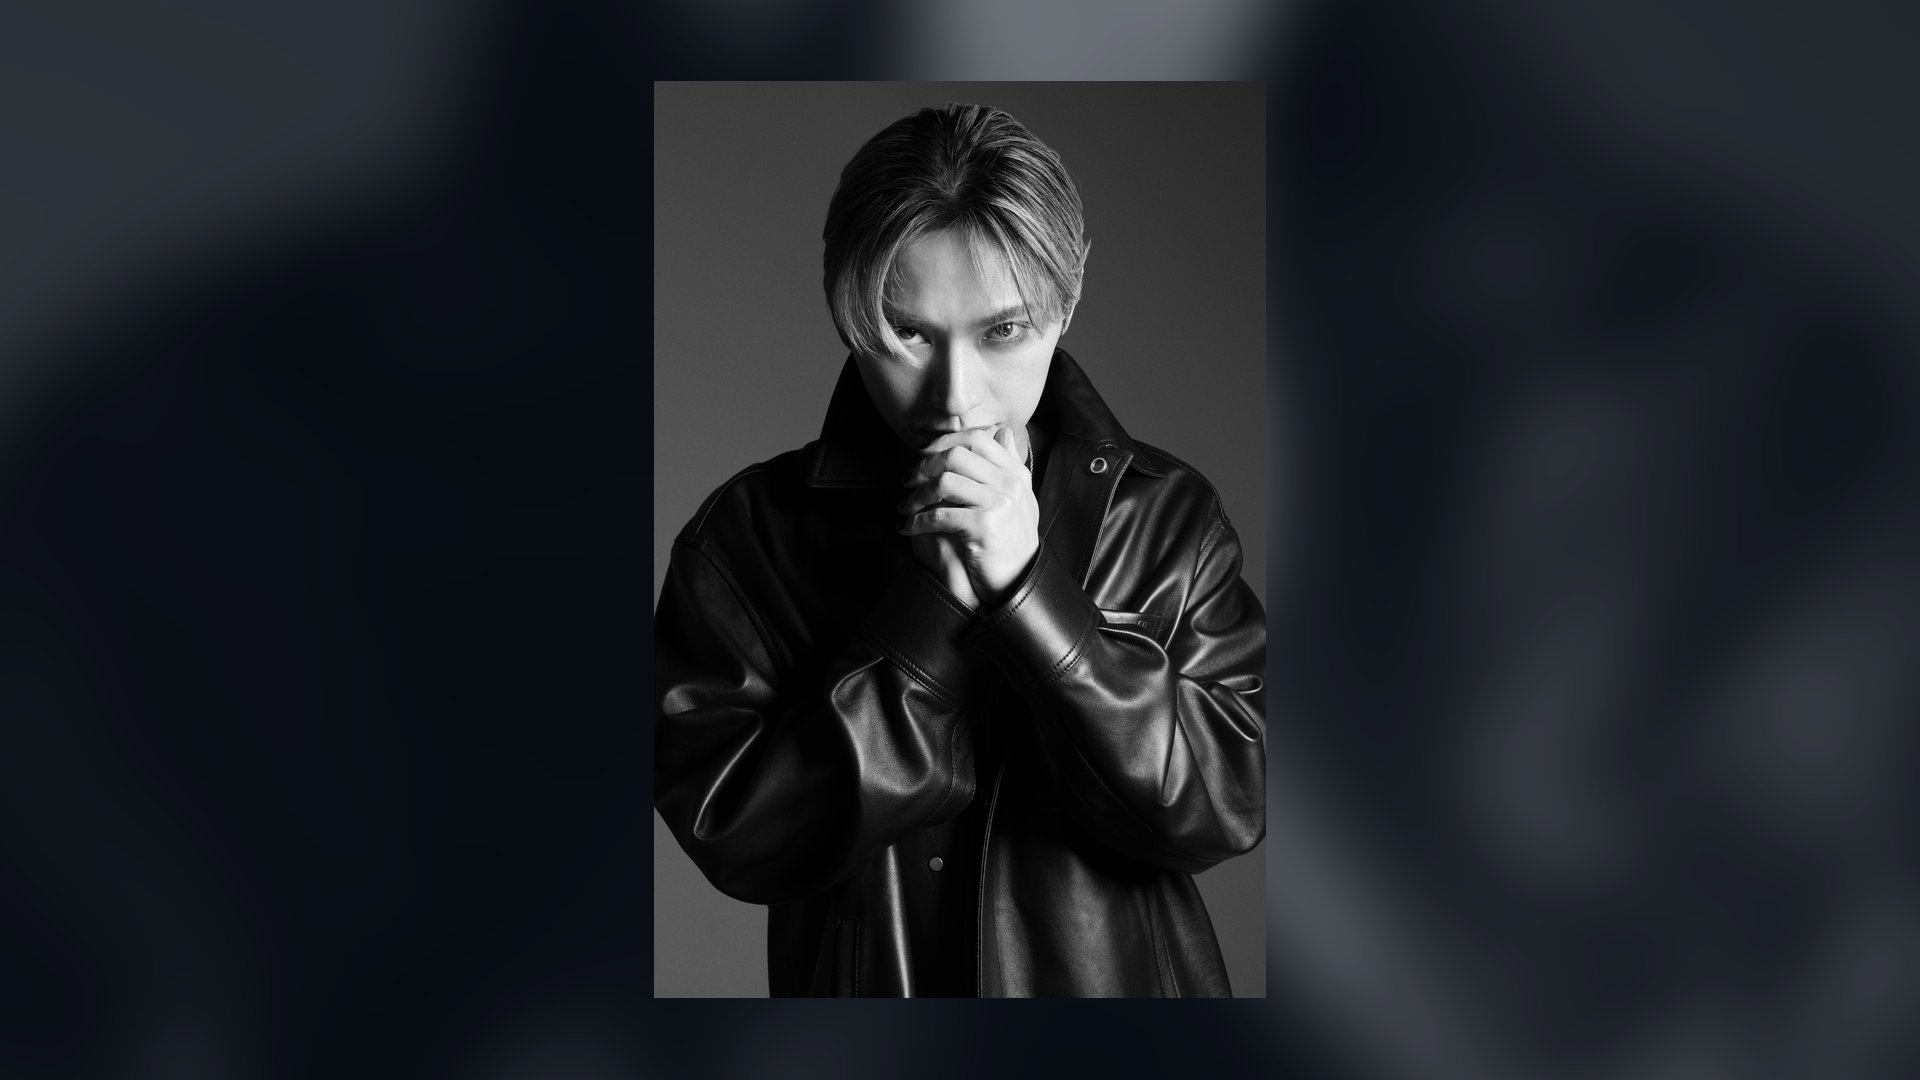
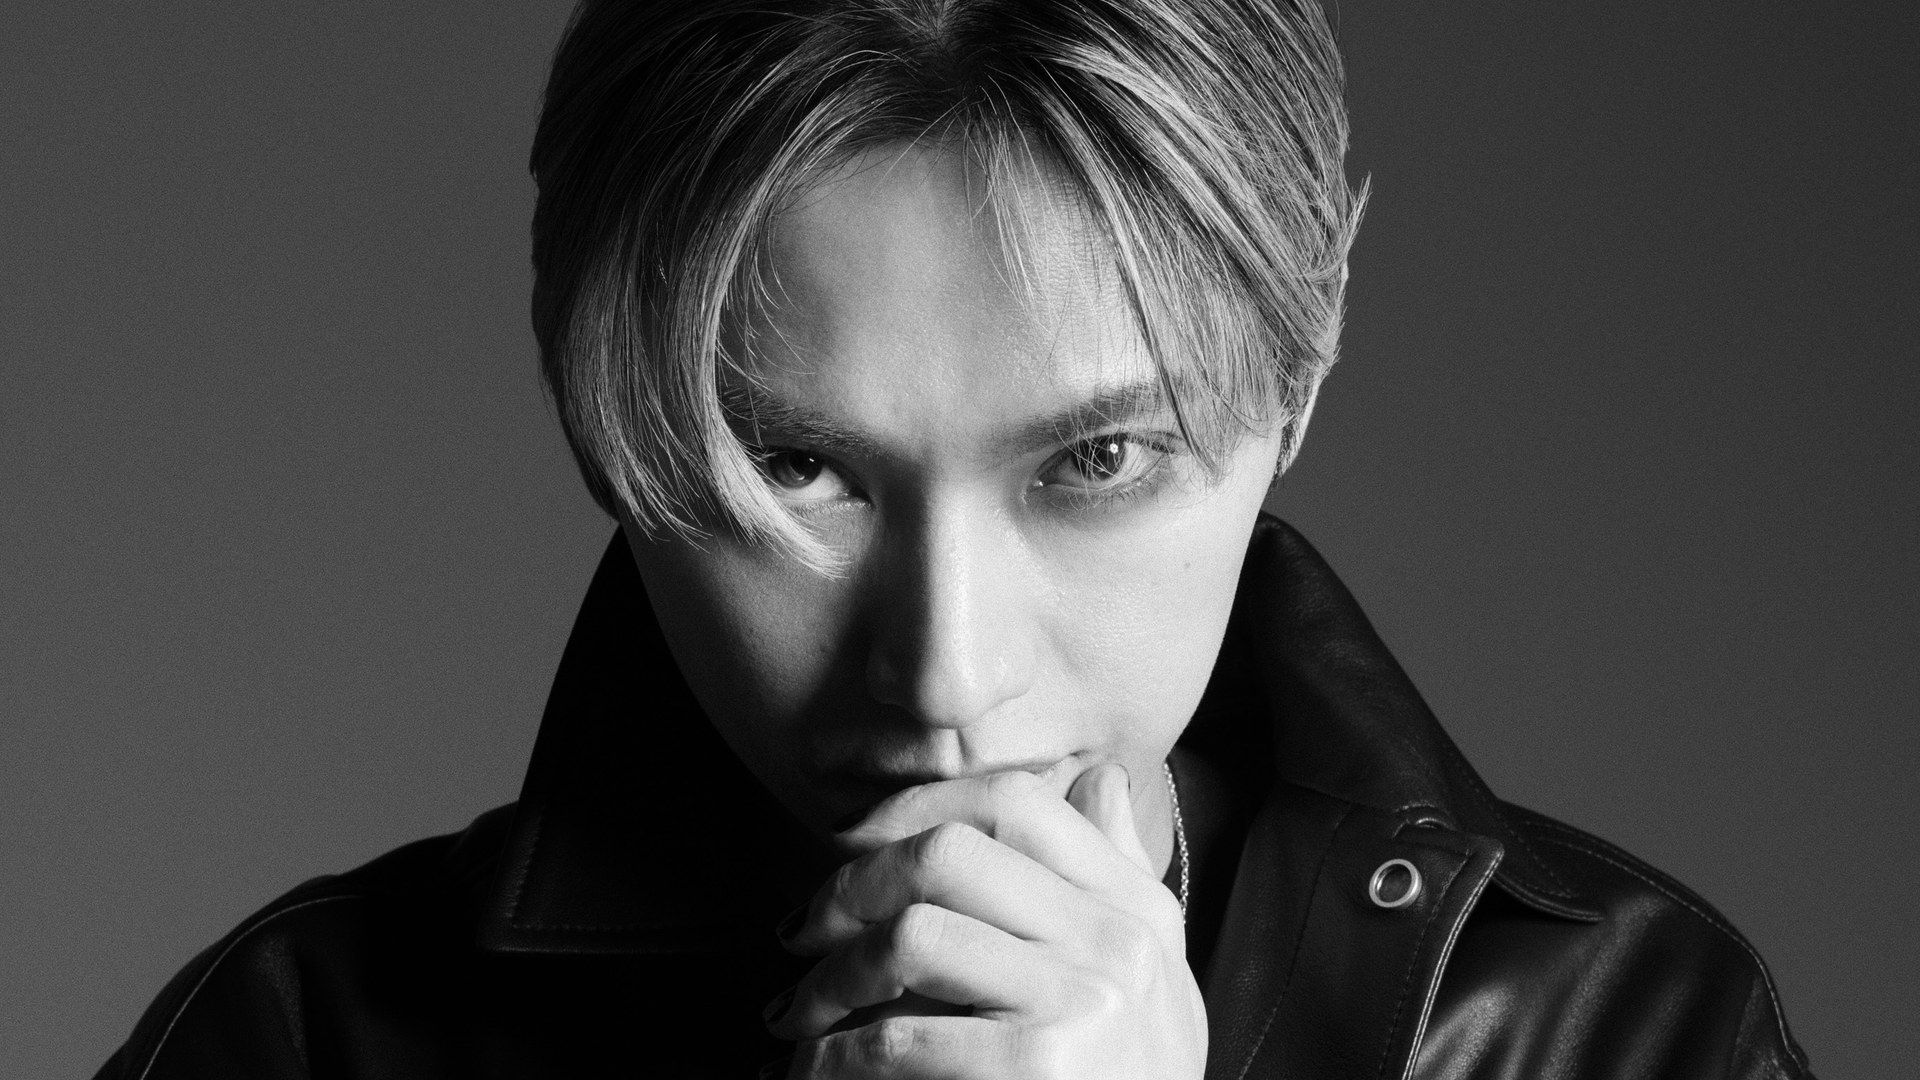
feat: use group shots + cover crop + tuned gradient overlay

diff --git a/html/artists-index.html b/html/artists-index.html
@@ -40,27 +40,24 @@
       cursor: pointer;
     }
 
-    /* Dark gradient overlay */
+    /* Dark gradient overlay - 下方向グラデで写真上部を見せる */
     .panel-overlay {
       position: absolute;
       inset: 0;
-      background: linear-gradient(
-        160deg,
-        rgba(0,0,0,0.08) 0%,
-        rgba(0,0,0,0.30) 40%,
-        rgba(0,0,0,0.70) 70%,
-        rgba(0,0,0,0.88) 100%
-      );
-      transition: background 0.3s;
+      background:
+        linear-gradient(to bottom,
+          rgba(0,0,0,0.0) 0%,
+          rgba(0,0,0,0.0) 35%,
+          rgba(0,0,0,0.35) 60%,
+          rgba(0,0,0,0.85) 100%),
+        linear-gradient(to right,
+          rgba(0,0,0,0.55) 0%,
+          rgba(0,0,0,0.15) 40%,
+          rgba(0,0,0,0.0) 70%);
+      transition: opacity 0.3s;
     }
     .panel:hover .panel-overlay {
-      background: linear-gradient(
-        160deg,
-        rgba(0,0,0,0.15) 0%,
-        rgba(0,0,0,0.38) 40%,
-        rgba(0,0,0,0.75) 70%,
-        rgba(0,0,0,0.92) 100%
-      );
+      opacity: 0.92;
     }
 
     /* ── Top bar (YUGEN brand + counter) ── */
